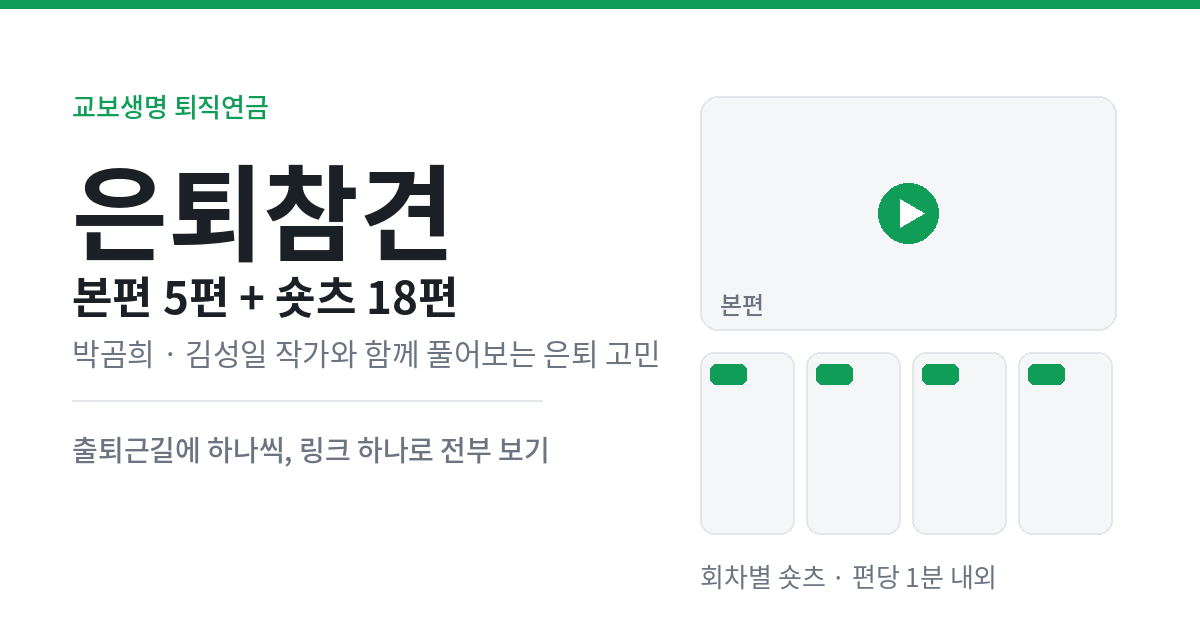
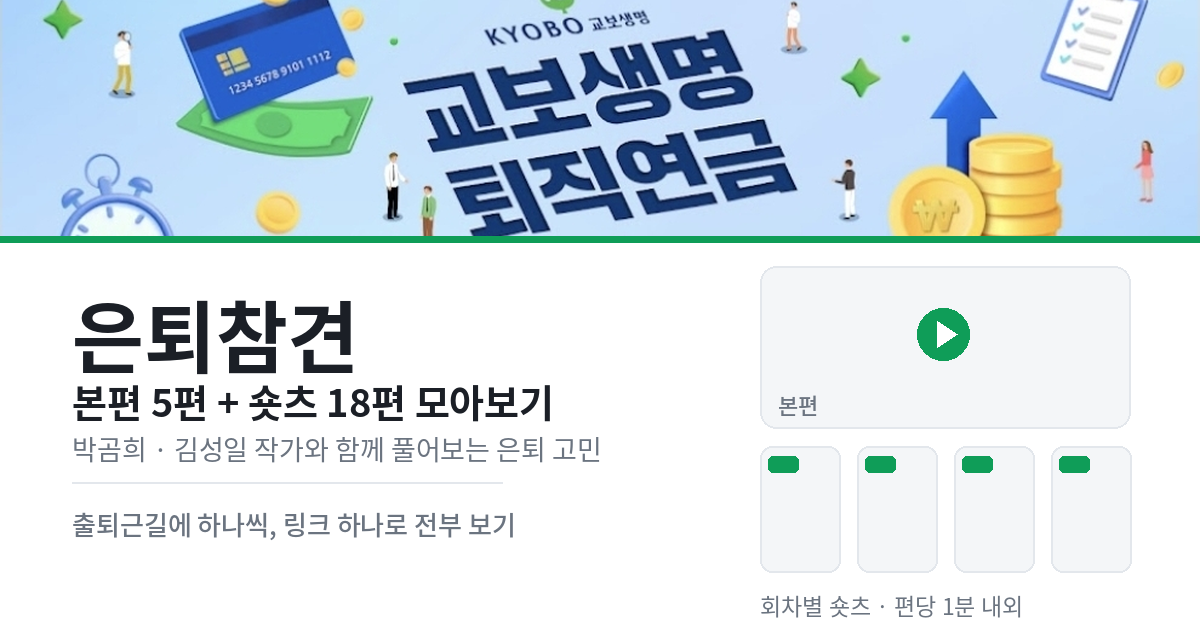
Add files via upload

diff --git a/index.html b/index.html
@@ -23,7 +23,7 @@
 <link rel="stylesheet" href="https://cdn.jsdelivr.net/gh/orioncactus/pretendard@v1.3.9/dist/web/variable/pretendardvariable-dynamic-subset.min.css">
 <style>
   :root{
-    --bg:#FFFFFF; --soft:#F4F6F8; --line:#E3E7EC;
+    --bg:#F1F3F5; --card:#FFFFFF; --soft:#E9ECEF; --line:#DFE3E8; --navy:#0B3C7A;
     --ink:#1B1F26; --muted:#6B7480; --accent:#0F9D58; --radius:14px;
   }
   *{box-sizing:border-box}
@@ -34,6 +34,23 @@
   .wrap{max-width:1040px;margin:0 auto;padding:0 20px 56px}
   a{color:inherit}
 
+
+  /* 채널 배너 */
+  .banner{display:block;margin:16px 0 0;border-radius:var(--radius);overflow:hidden;
+          border:1px solid var(--line);text-decoration:none;background:var(--card)}
+  .banner img{width:100%;display:block}
+  .banner .fb{display:none}
+  .banner.no-img .fb{display:flex;align-items:center;gap:14px;padding:20px 22px;
+          background:linear-gradient(105deg,#E3EEFA 0%,#EFF5FC 55%,#E8F3EC 100%)}
+  .banner .mark{flex:0 0 auto;width:46px;height:46px;border-radius:50%;background:#fff;
+          display:grid;place-items:center;font-size:13px;font-weight:800;color:var(--navy);
+          letter-spacing:-.04em;border:1px solid rgba(11,60,122,.12)}
+  .banner .bt{display:flex;flex-direction:column;gap:2px}
+  .banner .bt strong{font-size:19px;font-weight:800;color:var(--navy);letter-spacing:-.03em}
+  .banner .bt span{font-size:12.5px;color:#5A7594}
+  .banner .sub{margin-left:auto;font-size:12.5px;font-weight:700;color:var(--accent);white-space:nowrap}
+  @media(max-width:520px){.banner .sub{display:none}}
+
   /* 헤더 */
   header{padding:30px 0 0}
   .label{font-size:13px;font-weight:700;color:var(--accent);letter-spacing:.01em}
@@ -43,13 +60,13 @@
   .stat b{color:var(--ink);font-weight:700}
 
   /* 회차 이동 칩 */
-  .nav{position:sticky;top:0;z-index:20;background:rgba(255,255,255,.92);
+  .nav{position:sticky;top:0;z-index:20;background:rgba(241,243,245,.92);
        backdrop-filter:saturate(180%) blur(8px);border-bottom:1px solid var(--line);margin-top:22px}
   .nav-in{max-width:1040px;margin:0 auto;padding:10px 20px;display:flex;gap:8px;overflow-x:auto;
           scrollbar-width:none}
   .nav-in::-webkit-scrollbar{display:none}
   .chip{flex:0 0 auto;text-decoration:none;font-size:13px;font-weight:600;color:var(--muted);
-        border:1px solid var(--line);border-radius:999px;padding:7px 13px;background:#fff;
+        border:1px solid var(--line);border-radius:999px;padding:7px 13px;background:var(--card);
         transition:color .15s,border-color .15s}
   .chip:hover,.chip.on{color:var(--accent);border-color:var(--accent)}
 
@@ -63,7 +80,7 @@
 
   /* 본편 */
   .full{margin-top:14px;display:block;text-decoration:none;border:1px solid var(--line);
-        border-radius:var(--radius);overflow:hidden;background:#fff;transition:border-color .15s,box-shadow .15s}
+        border-radius:var(--radius);overflow:hidden;background:var(--card);transition:border-color .15s,box-shadow .15s}
   .full:hover{border-color:var(--accent);box-shadow:0 6px 20px rgba(27,31,38,.07)}
   @media(min-width:760px){.full{display:grid;grid-template-columns:1.3fr 1fr}}
   .shot{position:relative;aspect-ratio:16/9;background:var(--soft)}
@@ -82,7 +99,7 @@
   /* 숏츠 */
   .grid{margin-top:12px;display:grid;gap:12px;grid-template-columns:repeat(2,1fr)}
   @media(min-width:760px){.grid{grid-template-columns:repeat(4,1fr);gap:16px}}
-  .card{border:1px solid var(--line);border-radius:var(--radius);overflow:hidden;background:#fff;
+  .card{border:1px solid var(--line);border-radius:var(--radius);overflow:hidden;background:var(--card);
         display:flex;flex-direction:column;transition:border-color .15s,box-shadow .15s}
   .card:hover{border-color:var(--accent);box-shadow:0 6px 20px rgba(27,31,38,.07)}
   .thumb{position:relative;display:block;aspect-ratio:9/16;background:var(--soft);text-decoration:none}
@@ -93,7 +110,7 @@
   .title{margin:0;font-size:14px;font-weight:600;letter-spacing:-.02em;line-height:1.4}
   .title a{text-decoration:none}
   .title a:hover{text-decoration:underline;text-underline-offset:3px}
-  .copy{margin-top:auto;background:#fff;color:var(--muted);border:1px solid var(--line);
+  .copy{margin-top:auto;background:var(--card);color:var(--muted);border:1px solid var(--line);
         border-radius:8px;padding:6px 0;width:100%;font-family:inherit;font-size:12px;cursor:pointer;
         transition:color .15s,border-color .15s}
   .copy:hover{color:var(--accent);border-color:var(--accent)}
@@ -105,7 +122,7 @@
 
   /* 채널 / 공유 */
   .channel{margin-top:34px;display:flex;align-items:center;gap:13px;text-decoration:none;
-           padding:15px 18px;border:1px solid var(--line);border-radius:var(--radius);background:#fff;
+           padding:15px 18px;border:1px solid var(--line);border-radius:var(--radius);background:var(--card);
            transition:border-color .15s}
   .channel:hover{border-color:var(--accent)}
   .channel .yt{flex:0 0 auto;width:38px;height:27px;border-radius:7px;background:var(--accent);
@@ -115,7 +132,7 @@
   .channel .t span{font-size:12.5px;color:var(--muted)}
   .channel .go{margin-left:auto;flex:0 0 auto;font-size:13px;color:var(--accent);font-weight:700}
   .share{margin-top:12px;padding:17px 18px;border:1px solid var(--line);border-radius:var(--radius);
-         display:flex;flex-wrap:wrap;align-items:center;gap:13px;justify-content:space-between;background:var(--soft)}
+         display:flex;flex-wrap:wrap;align-items:center;gap:13px;justify-content:space-between;background:var(--card)}
   .share p{margin:0;font-size:13.5px;color:var(--muted);max-width:44ch}
   .btn{background:var(--accent);color:#fff;border:0;border-radius:9px;padding:11px 18px;
        font-family:inherit;font-size:14px;font-weight:700;cursor:pointer}
@@ -129,6 +146,18 @@
 <body>
 
 <div class="wrap">
+  <a class="banner" id="banner" href="https://www.youtube.com/@kyoboPension" target="_blank" rel="noopener">
+    <img src="banner.png" alt="교보생명 퇴직연금" onerror="document.getElementById('banner').classList.add('no-img');this.remove()">
+    <div class="fb">
+      <span class="mark">KYOBO</span>
+      <span class="bt">
+        <strong>교보생명 퇴직연금</strong>
+        <span>@KyoboPension · 흔들리지 않는 투자를 위한 유용한 콘텐츠</span>
+      </span>
+      <span class="sub">채널 바로가기</span>
+    </div>
+  </a>
+
   <header>
     <div class="label">교보생명 퇴직연금</div>
     <h1>은퇴참견 모아보기</h1>

diff --git a/README.md b/README.md
@@ -1,0 +1,50 @@
+# 은퇴참견 모아보기 — 공유 대시보드
+
+저장소에 올릴 파일은 세 개입니다. 별도 빌드나 설치가 필요 없습니다.
+
+| 파일 | 역할 |
+|---|---|
+| `index.html` | 대시보드 본체 |
+| `banner.png` | 상단 채널 배너 |
+| `og-image.png` | 카톡 링크 미리보기 썸네일 (1200×630) |
+
+세 파일을 같은 위치(저장소 루트)에 올려야 합니다.
+
+## 1. 깃허브에 올리기
+
+1. github.com에서 **New repository** → 이름은 영문 소문자로 (예: `retire-ep4`), **Public** 선택 → Create.
+2. 저장소 화면에서 **Add file → Upload files** → 세 파일 모두 드래그 → **Commit changes**.
+   (저장소가 비어 있으면 Add file 대신 파란 박스의 *uploading an existing file* 링크를 누르세요.)
+3. 상단 **Settings → Pages** → Source를 **Deploy from a branch**, Branch를 **main / (root)** 로 지정 → Save.
+4. 1~2분 뒤 `https://사용자명.github.io/저장소명/` 주소가 생성됩니다.
+
+## 2. 주소 반영하기
+
+주소가 `https://psyops42-art.github.io/pension_info/` 와 다르면 `index.html` 상단 두 줄을 바꿔주세요. 카톡 링크 미리보기가 이 값을 읽습니다.
+
+```html
+<link rel="canonical" href="https://psyops42-art.github.io/pension_info/">
+<meta property="og:url" content="https://psyops42-art.github.io/pension_info/">
+```
+
+수정 후 다시 업로드(또는 깃허브 웹에서 연필 아이콘으로 편집)하면 즉시 반영됩니다.
+
+## 3. 회차 추가·수정
+
+`index.html` 중간의 `SERIES` 블록 한 곳만 고치면 화면 전체에 반영됩니다.
+
+```js
+{ ep:5, name:"인출기투자 편", partial:true,
+  full:{ id:"영상ID", title:"제목", note:"한 줄 설명" },
+  shorts:[ { id:"영상ID", title:"제목" }, ... ] }
+```
+
+- `id`는 주소 뒤 11자리입니다. 본편 `youtu.be/**NdNuP3ZK1Vg**`, 숏츠 `shorts/**WaocIi2JWME**`
+- 숏츠는 배열 순서대로 EP.1, EP.2… 로 번호가 붙습니다.
+- `partial:true`는 "나머지 숏츠 순차 공개" 안내를 띄웁니다. 다 채워지면 지우세요.
+- 썸네일은 유튜브에서 자동으로 불러오므로 이미지를 따로 준비할 필요가 없습니다.
+
+## 4. 카톡 미리보기가 이상할 때
+
+카카오는 링크 미리보기를 캐시합니다. 주소나 썸네일을 수정한 뒤에는
+https://developers.kakao.com/tool/clear/og 에서 해당 주소를 넣고 캐시를 지운 다음 다시 공유하세요.
